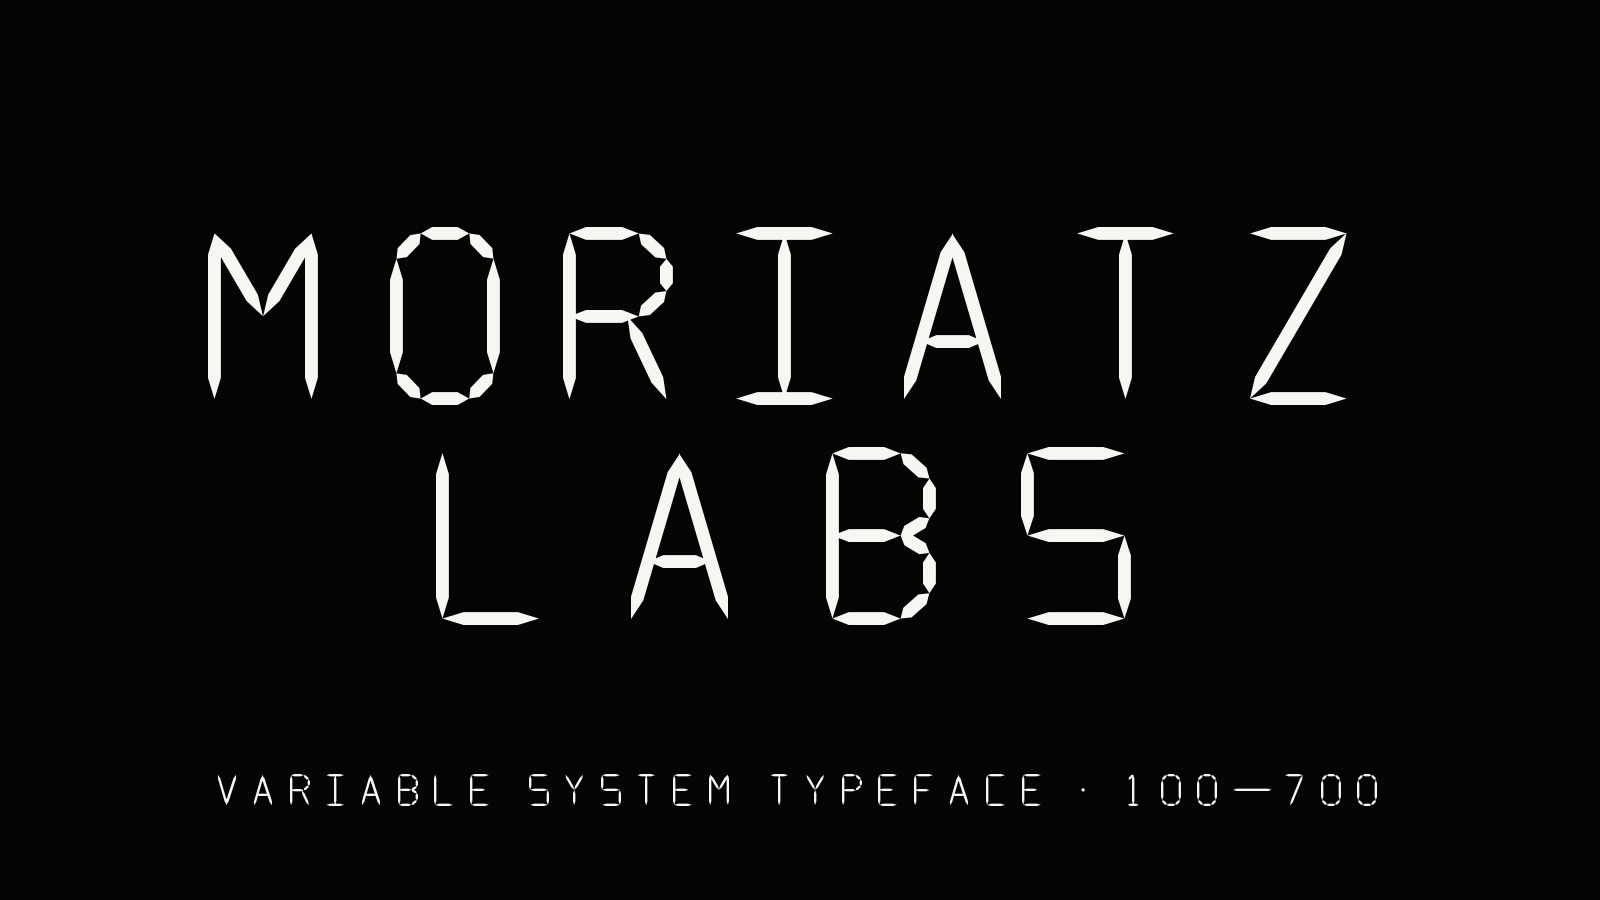
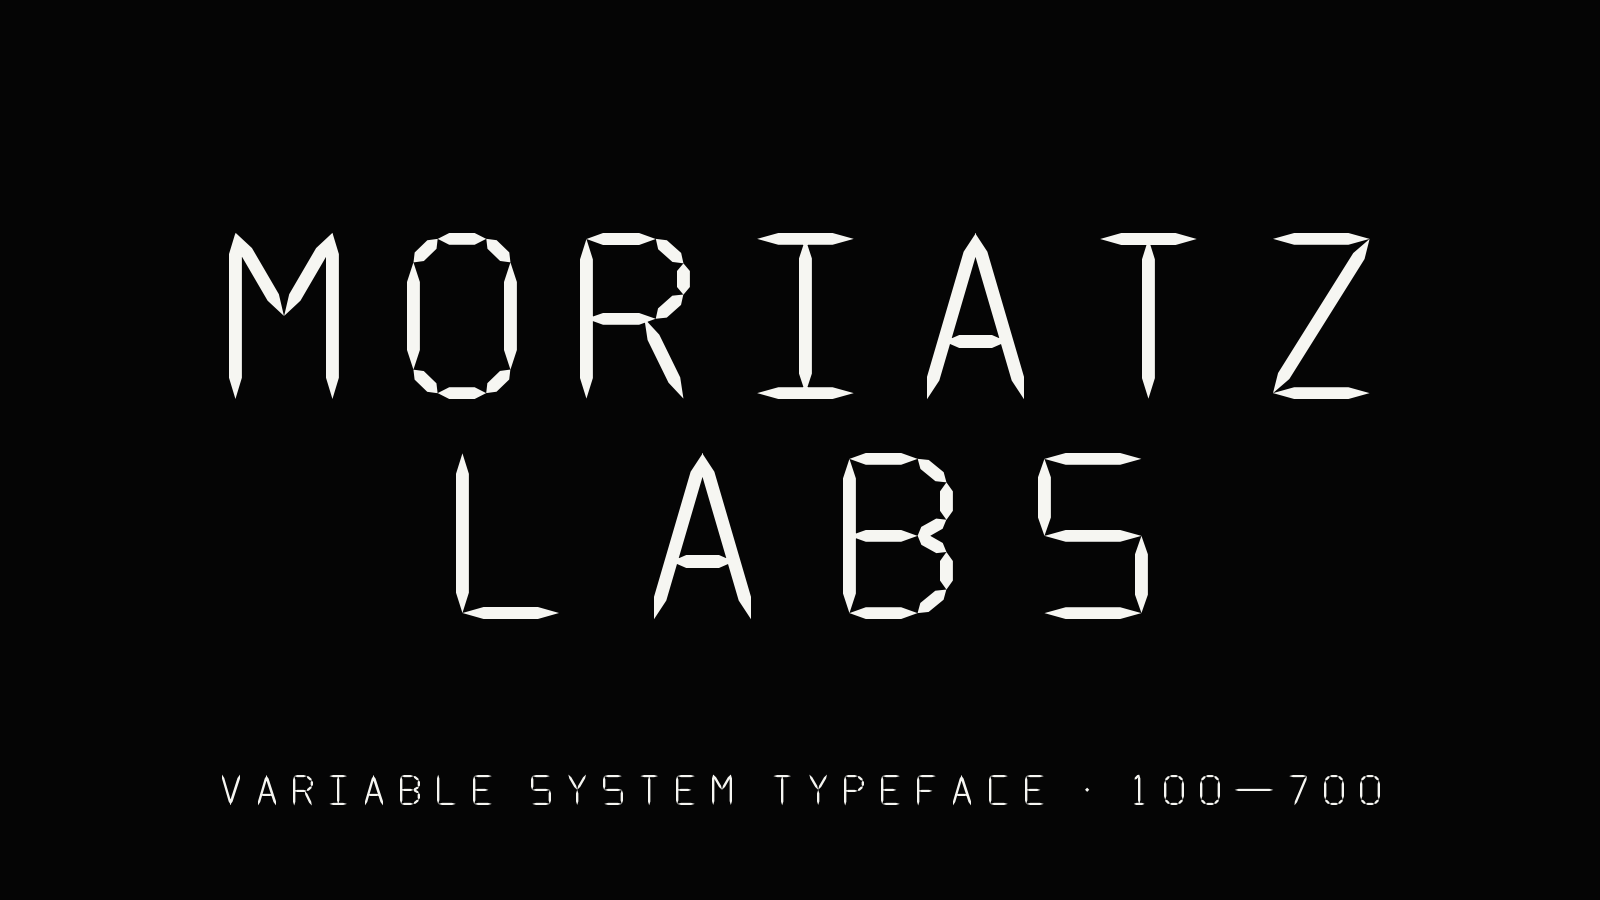
Add font alignment inspector

diff --git a/apps/docs/src/features/font/FontPage.tsx b/apps/docs/src/features/font/FontPage.tsx
@@ -9,10 +9,20 @@ const weightSpecimens = [
 ] as const;
 
 const glyphs = "ABCDEFGHIJKLMNOPQRSTUVWXYZ 0123456789 !?@#%&·–—";
+const inspectorGlyphs = "ABCDEFGHIJKLMNOPQRSTUVWXYZabcdefghijklmnopqrstuvwxyz0123456789.!?";
+const fontMetrics = [
+  { label: "Cap height", value: 720 },
+  { label: "X-height", value: 520 },
+  { label: "Baseline", value: 0 },
+  { label: "Descender", value: -220 },
+] as const;
 
 export function FontPage() {
   const [weight, setWeight] = useState(400);
+  const [size, setSize] = useState(160);
+  const [spacing, setSpacing] = useState(4);
   const [sample, setSample] = useState("MORIATZ LABS");
+  const [inspectedGlyph, setInspectedGlyph] = useState("T");
   const variableStyle = {
     fontVariationSettings: `"wght" ${weight}`,
     fontWeight: weight,
@@ -24,17 +34,66 @@ export function FontPage() {
         <div className="font-page-meta">
           <span>Moriatz Sans</span>
           <span>Variable 100—700</span>
-          <span>Version 0.2</span>
+          <span>Version 0.3</span>
         </div>
         <h1 aria-label="Moriatz Sans">
           <span>MORIATZ</span>
           <span>SANS</span>
         </h1>
         <div className="font-page-intro">
-          <p>An original tapered system face. Skeletal by construction, now dark enough for every product surface.</p>
+          <p>An original tapered system face. Dark enough for product surfaces, with every glyph aligned to shared metric zones.</p>
           <a href="https://github.com/moriatz-labs/moriatz-sans/releases/latest">Download the family <span aria-hidden="true">↗</span></a>
         </div>
+        <dl className="font-metric-summary">
+          {fontMetrics.map((metric) => (
+            <div key={metric.label}>
+              <dt>{metric.label}</dt>
+              <dd>{metric.value}</dd>
+            </div>
+          ))}
+        </dl>
       </header>
+
+      <section className="font-inspector" aria-labelledby="font-inspector-title">
+        <div className="font-section-heading">
+          <span>01</span>
+          <div>
+            <h2 id="font-inspector-title">Interactive glyph inspector</h2>
+            <p>Select any glyph to verify its cap line, x-height, baseline, and descender.</p>
+          </div>
+        </div>
+        <div className="font-inspector-stage">
+          <svg viewBox="0 -820 1000 1040" role="img" aria-label={`${inspectedGlyph} aligned to font metrics`}>
+            <title>{inspectedGlyph} alignment inspector</title>
+            <g className="font-inspector-guides" aria-hidden="true">
+              <line x1="0" x2="1000" y1="-720" y2="-720" />
+              <line x1="0" x2="1000" y1="-520" y2="-520" />
+              <line x1="0" x2="1000" y1="0" y2="0" />
+              <line x1="0" x2="1000" y1="220" y2="220" />
+            </g>
+            <text className="font-inspector-glyph" x="500" y="0" textAnchor="middle" style={variableStyle}>{inspectedGlyph}</text>
+          </svg>
+          <div className="font-inspector-labels" aria-hidden="true">
+            <span>Cap height <b>720</b></span>
+            <span>X-height <b>520</b></span>
+            <span>Baseline <b>0</b></span>
+            <span>Descender <b>−220</b></span>
+          </div>
+        </div>
+        <div className="font-inspector-grid" aria-label="Choose a glyph">
+          {[...inspectorGlyphs].map((glyph) => (
+            <button
+              type="button"
+              key={glyph}
+              aria-label={`Inspect ${glyph}`}
+              aria-pressed={inspectedGlyph === glyph}
+              onClick={() => setInspectedGlyph(glyph)}
+            >
+              {glyph}
+            </button>
+          ))}
+        </div>
+      </section>
 
       <section className="font-lab" aria-labelledby="font-lab-title">
         <div className="font-lab-controls">
@@ -55,17 +114,27 @@ export function FontPage() {
             />
             <output htmlFor="font-weight">{weight}</output>
           </label>
+          <label className="font-weight-control">
+            <span>Size</span>
+            <input type="range" min="48" max="200" step="1" value={size} onChange={(event) => setSize(Number(event.target.value))} />
+            <output>{size}</output>
+          </label>
+          <label className="font-weight-control">
+            <span>Spacing</span>
+            <input type="range" min="-5" max="20" step="1" value={spacing} onChange={(event) => setSpacing(Number(event.target.value))} />
+            <output>{spacing}%</output>
+          </label>
         </div>
         <label className="font-sample-input">
           <span>Sample text</span>
           <input value={sample} maxLength={36} onChange={(event) => setSample(event.target.value)} />
         </label>
-        <p className="font-live-sample" data-testid="font-live-sample" style={variableStyle}>{sample || "MORIATZ SANS"}</p>
+        <p className="font-live-sample" data-testid="font-live-sample" style={{ ...variableStyle, fontSize: `min(${size}px, 20vw)`, letterSpacing: `${spacing / 100}em` }}>{sample || "MORIATZ SANS"}</p>
       </section>
 
       <section className="font-weight-spectrum" aria-labelledby="weight-spectrum-title">
         <div className="font-section-heading">
-          <span>01</span>
+          <span>02</span>
           <div>
             <h2 id="weight-spectrum-title">One continuous voice</h2>
             <p>Four moments from a single variable axis.</p>
@@ -84,7 +153,7 @@ export function FontPage() {
 
       <section className="font-glyph-section" aria-labelledby="glyph-title">
         <div className="font-section-heading font-section-heading--inverse">
-          <span>02</span>
+          <span>03</span>
           <div>
             <h2 id="glyph-title">The system alphabet</h2>
             <p>Architectural capitals, compact small capitals, numbers, and essential punctuation.</p>
@@ -95,7 +164,7 @@ export function FontPage() {
 
       <section className="font-details" aria-labelledby="font-details-title">
         <div className="font-section-heading">
-          <span>03</span>
+          <span>04</span>
           <div>
             <h2 id="font-details-title">Built for Moriatz</h2>
             <p>One family across brand and interface.</p>
@@ -104,7 +173,7 @@ export function FontPage() {
         <dl>
           <div><dt>Axis</dt><dd>Weight, 100—700</dd></div>
           <div><dt>Default</dt><dd>300 Signature</dd></div>
-          <div><dt>Construction</dt><dd>Tapered geometric strokes</dd></div>
+          <div><dt>Alignment</dt><dd>720 cap · 520 x-height · 0 baseline</dd></div>
           <div><dt>Coverage</dt><dd>Basic Latin + display punctuation</dd></div>
           <div><dt>Formats</dt><dd>Variable TTF, WOFF2, Regular TTF</dd></div>
           <div><dt>License</dt><dd>SIL Open Font License 1.1</dd></div>

diff --git a/apps/docs/src/styles.css b/apps/docs/src/styles.css
@@ -4,6 +4,8 @@
 
 html {
   background: var(--background);
+  -webkit-font-smoothing: antialiased;
+  -moz-osx-font-smoothing: grayscale;
 }
 
 body {
@@ -1023,14 +1025,130 @@ body {
   text-underline-offset: 0.35rem;
 }
 
+.font-metric-summary {
+  display: grid;
+  grid-template-columns: repeat(4, minmax(0, 1fr));
+  margin: clamp(2rem, 5vw, 4rem) 0 0;
+  border-top: 1px solid #333;
+  border-left: 1px solid #333;
+}
+
+.font-metric-summary div {
+  padding: 1rem;
+  border-right: 1px solid #333;
+  border-bottom: 1px solid #333;
+}
+
+.font-metric-summary dt {
+  color: #999;
+  font-size: var(--type-size-xs);
+  text-transform: uppercase;
+}
+
+.font-metric-summary dd {
+  margin: 1.25rem 0 0;
+  font-size: var(--type-size-xl);
+  font-variant-numeric: tabular-nums;
+}
+
 .font-lab,
+.font-inspector,
 .font-weight-spectrum,
 .font-details {
   padding: clamp(2rem, 5vw, 4rem);
 }
 
+.font-inspector {
+  min-width: 0;
+  border-bottom: 1px solid var(--border-strong);
+}
+
+.font-inspector-stage {
+  position: relative;
+  overflow: hidden;
+  margin-top: 3rem;
+  background: #f2f2ed;
+}
+
+.font-inspector-stage svg {
+  display: block;
+  width: 100%;
+  max-height: 42rem;
+}
+
+.font-inspector-guides line {
+  stroke: #0a0a0a;
+  stroke-dasharray: 7 7;
+  stroke-opacity: 0.28;
+  vector-effect: non-scaling-stroke;
+}
+
+.font-inspector-glyph {
+  fill: #050505;
+  font-family: var(--font-heading);
+  font-size: 1000px;
+}
+
+.font-inspector-labels {
+  position: absolute;
+  inset: 0;
+  color: #575757;
+  font-size: clamp(0.625rem, 1.4vw, 0.75rem);
+  pointer-events: none;
+  text-transform: uppercase;
+}
+
+.font-inspector-labels span {
+  position: absolute;
+  left: 0.75rem;
+  display: flex;
+  gap: 0.5rem;
+  transform: translateY(-100%);
+}
+
+.font-inspector-labels span:nth-child(1) { top: 9.62%; }
+.font-inspector-labels span:nth-child(2) { top: 28.85%; }
+.font-inspector-labels span:nth-child(3) { top: 78.85%; }
+.font-inspector-labels span:nth-child(4) { top: 100%; }
+
+.font-inspector-labels b { color: #050505; font-weight: var(--type-weight-semibold); }
+
+.font-inspector-grid {
+  display: grid;
+  grid-template-columns: repeat(auto-fit, minmax(2.75rem, 1fr));
+  margin-top: 1rem;
+  border-top: 1px solid var(--border);
+  border-left: 1px solid var(--border);
+}
+
+.font-inspector-grid button {
+  min-width: var(--control-hit-target);
+  min-height: var(--control-hit-target);
+  border: 0;
+  border-right: 1px solid var(--border);
+  border-bottom: 1px solid var(--border);
+  background: transparent;
+  color: var(--foreground);
+  font: inherit;
+  font-size: var(--type-size-lg);
+  cursor: pointer;
+}
+
+.font-inspector-grid button:hover,
+.font-inspector-grid button[aria-pressed="true"] {
+  background: var(--foreground);
+  color: var(--background);
+}
+
+.font-inspector-grid button:focus-visible {
+  position: relative;
+  z-index: 1;
+  outline: 2px solid var(--ring);
+  outline-offset: -2px;
+}
+
 .font-lab-controls {
-  grid-template-columns: minmax(0, 1fr) minmax(18rem, 0.7fr);
+  grid-template-columns: minmax(0, 1fr) repeat(3, minmax(12rem, 0.5fr));
   gap: clamp(2rem, 6vw, 6rem);
 }
 
@@ -1360,6 +1478,10 @@ body {
 }
 
 @media (max-width: 30rem) {
+  .font-metric-summary {
+    grid-template-columns: repeat(2, minmax(0, 1fr));
+  }
+
   .marketing-nav-shell {
     padding-inline: 0.5rem;
   }

diff --git a/quality-tests/browser/functional.spec.ts b/quality-tests/browser/functional.spec.ts
@@ -42,6 +42,10 @@ test("@functional font page exposes an editable variable-weight specimen", async
   const weightInput = page.getByLabel("Weight");
   await weightInput.fill("700");
   await expect(page.getByTestId("font-live-sample")).toHaveCSS("font-weight", "700");
+
+  await page.getByRole("button", { name: "Inspect A", exact: true }).click();
+  await expect(page.getByRole("img", { name: "A aligned to font metrics" })).toBeVisible();
+  await expect(page.getByText("Cap height", { exact: true }).first()).toBeVisible();
 });
 
 test("@functional documentation stays light when stored and system preferences are dark", async ({ page }) => {

diff --git a/packages/strawn/README.md b/packages/strawn/README.md
@@ -5,7 +5,7 @@ Strawn - Moriatz's official design system. This package provides its accessible 
 Install Strawn, its icon package, and the canonical variable fonts:
 
 ```sh
-bun add strawn strawn-icons github:moriatz-labs/moriatz-sans#v0.2.0
+bun add strawn strawn-icons github:moriatz-labs/moriatz-sans#v0.3.0
 ```
 
 Load the font styles once at the application entry point, before rendering `ThemeProvider`:

diff --git a/.changeset/aligned-birds-read.md b/.changeset/aligned-birds-read.md
@@ -1,0 +1,5 @@
+---
+"strawn": patch
+---
+
+Update the canonical Moriatz Sans pin to v0.3.0, whose glyph bounds and sidebearings are normalized to shared alignment metrics.
